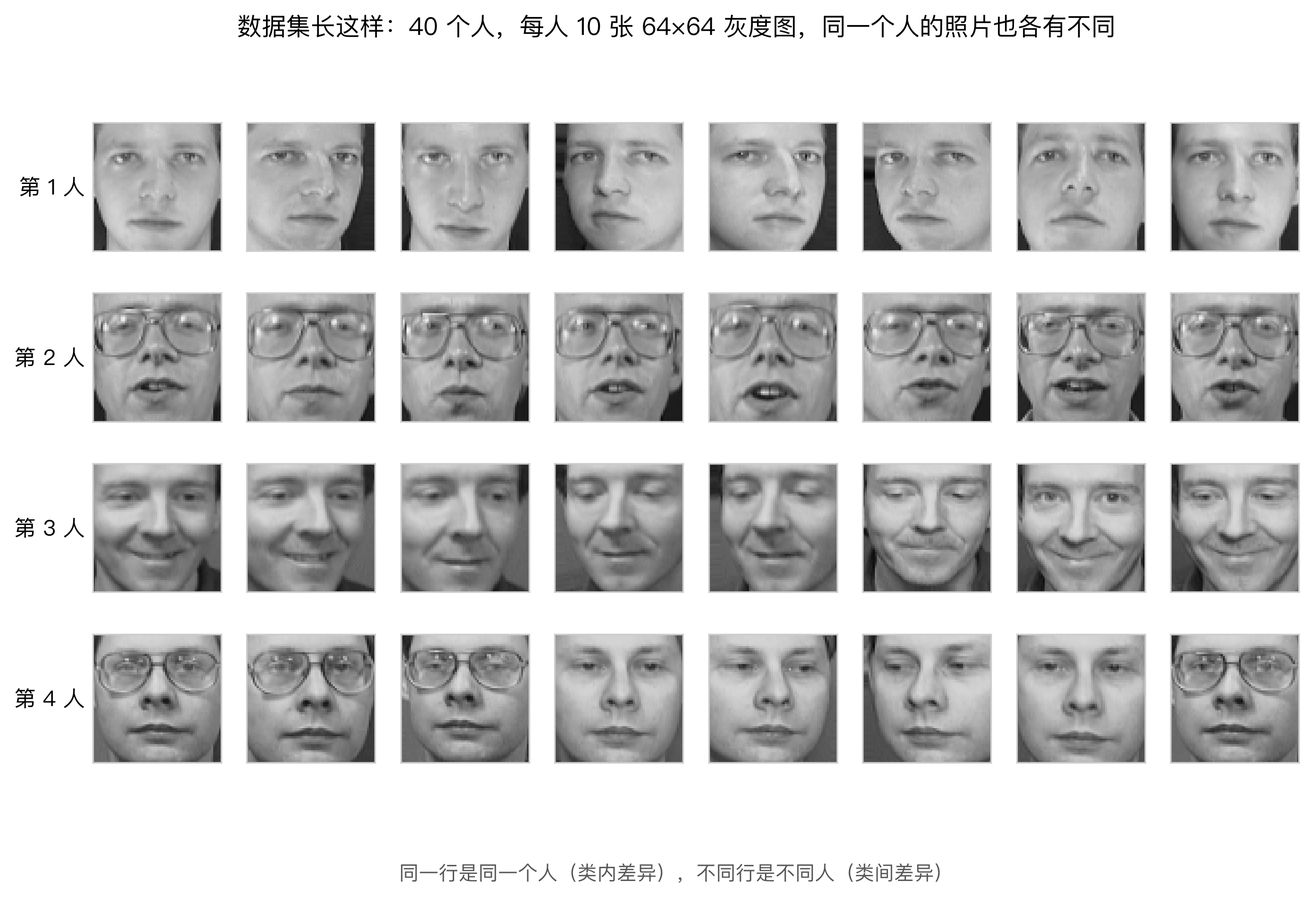
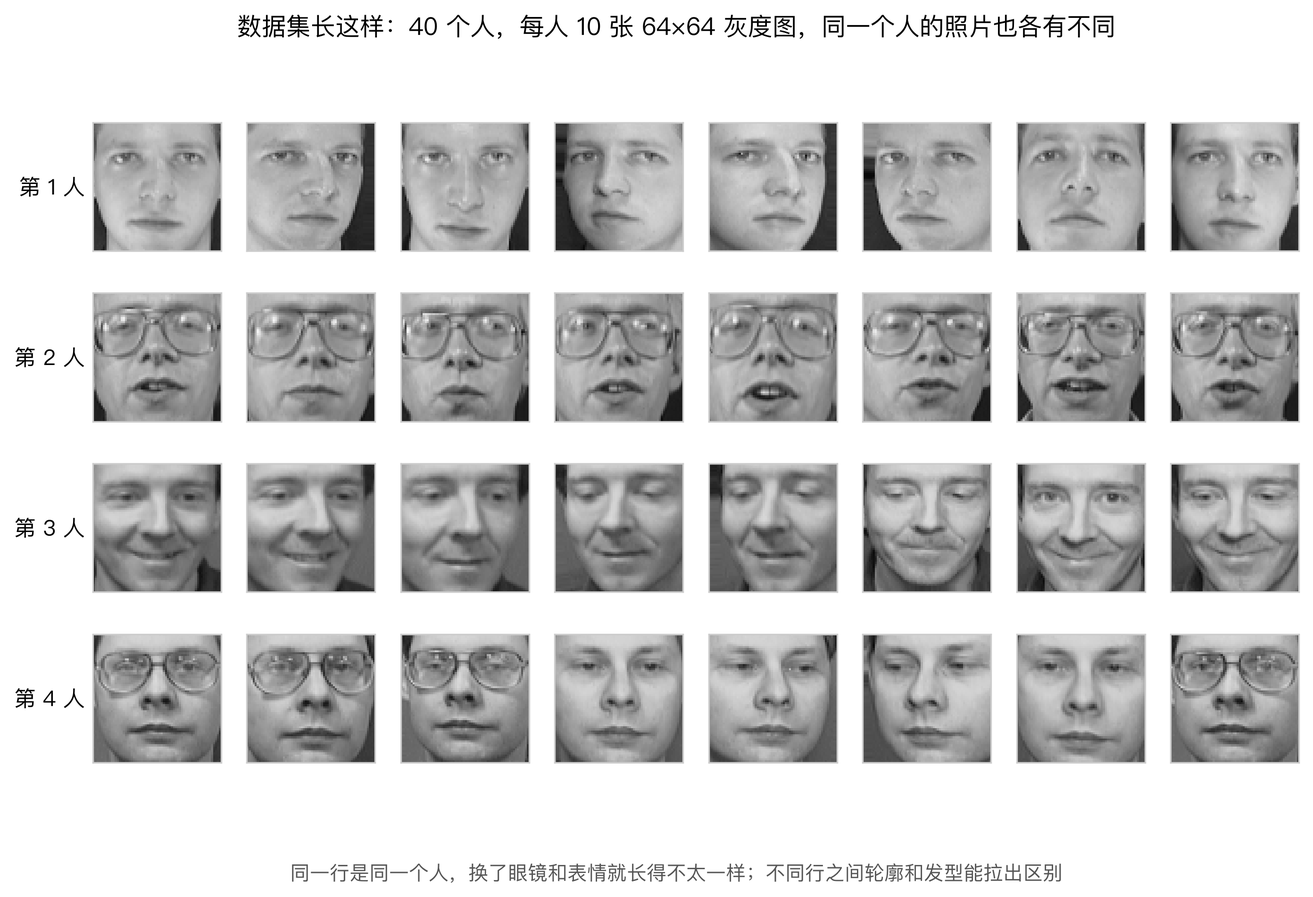
M14: 正文精简（9965 → 6787 字符），删掉未做的实验与概念延伸
- 字数硬上限改为 10000（用户要求），QC 同步
- 删：为什么不换真假脸数据集（正文两处重复）、类内/类间差异命名、分割检测网络的池化讨论、5×5/9×9 感受野延伸算账
- 压缩：开头钩子、im2col、输出尺寸公式、口径说明、BN 各段（训练/推理模式、批大小、He 初始化）
- 数字、8 张图、Q1-Q4 结构与三个干货点全部保留；数学占比 18.1% → 16.2%
- fig5 图内标注去掉了正文已不使用的类内/类间说法

Changed region(s): [[0.2188, 0.9616, 0.8125, 0.9926]]

diff --git a/M14_CNN_batch_norm/code/qc_article.py b/M14_CNN_batch_norm/code/qc_article.py
@@ -17,8 +17,8 @@ body = re.sub(r"```[\s\S]*?```", "", text)
 body = re.sub(r"图片占位.*", "", body)
 cn = len(re.findall(r"[\u4e00-\u9fff]", body))
 total = len(re.sub(r"\s", "", body))
-print(f"1) 字数：中文字符 {cn}，去空白总字符 {total}  -> 目标 ~10000（掘金无硬上限）")
-print(f"   {'PASS' if 8000 <= total <= 11000 else 'CHECK（目标区间 8000-11000）'}")
+print(f"1) 字数：中文字符 {cn}，去空白总字符 {total}  -> 硬上限 10000（用户要求精简）")
+print(f"   {'PASS' if 5000 <= total <= 10000 else 'CHECK（目标区间 5000-10000）'}")
 
 # ---------- 2. 黑名单词 ----------
 BLACK = ["赋能", "洞见", "底层逻辑", "硬核", "天花板", "降维打击", "抓手",

diff --git a/M14_CNN_batch_norm/code/make_extra_figures.py b/M14_CNN_batch_norm/code/make_extra_figures.py
@@ -52,7 +52,7 @@ for r in range(n_people):
     axes[r, 0].set_ylabel(f"第 {who + 1} 人", fontsize=11, rotation=0, ha="right", va="center")
 fig.suptitle("数据集长这样：40 个人，每人 10 张 64×64 灰度图，同一个人的照片也各有不同",
              fontsize=12.5, y=1.0)
-fig.text(0.5, -0.02, "同一行是同一个人（类内差异），不同行是不同人（类间差异）",
+fig.text(0.5, -0.02, "同一行是同一个人，换了眼镜和表情就长得不太一样；不同行之间轮廓和发型能拉出区别",
          ha="center", fontsize=10, color="#555555")
 save(fig, "fig5_sample_faces.png")
 

diff --git a/M14_CNN_batch_norm/M14_CNN_人脸_卷积与BN_2026-09-16.md b/M14_CNN_batch_norm/M14_CNN_人脸_卷积与BN_2026-09-16.md
@@ -1,184 +1,166 @@
 # 机器眼里没有脸，只有 4096 个数：手写 CNN 拆开卷积层与 BatchNorm
 
-早上七点四十，地铁口。我掏出手机，前置摄像头扫了一下脸，屏幕亮，锁开了。全程不到半秒，我连脚步都没停。
+早上七点四十，地铁口，我掏出手机扫了一下脸，锁开了，半秒不到。同一件事的另一面是，过去一年 AI 生成的脸也多了起来。2025 年 9 月 1 日《人工智能生成合成内容标识办法》施行，要求 AI 生成合成的内容打上标识，到今年 9 月刚好跑满一年。
 
-这事放在十年前还算高科技，现在门禁、快递柜、小区大门都在用。可另一边的风也在变。过去一年你大概在群里见过不少"AI 生成"的脸，滤镜磨得过头的、换脸视频里的、一键生成的证件照。2025 年 9 月 1 日，《人工智能生成合成内容标识办法》开始施行，要求 AI 生成合成的内容打上标识。到 2026 年 9 月，这套规矩跑满一年，配套的强制国标也落地了。
+一边是机器要认出你是谁，一边是机器要认出这张脸是不是真的。看着相反，底层是同一件事：一个能在像素里找规律的神经网络。
 
-一边是机器要认出你是谁，另一边是机器要认出这张脸是不是真的。两件事看着相反，底层却是同一套东西在干活：一个能在像素里找出规律的神经网络。
+这篇想问一个具体的问题：一张 64×64 的灰度小图，机器是怎么从里面分出"这是同一类人"的？为什么有的网络一学就会，有的怎么调都学不动？这后面站着两个主角，卷积层和 BatchNormalization（下面简称 BN）。我用一份真实人脸数据，从零用 numpy 把网络搭起来跑给你看，文章里每个数字都能在我给的脚本里原样跑出来。
 
-我在观星记的 M 系列里写过分类、回归、词向量、聚类。这一篇想把镜头拉近，问一个特别具体的问题：一张 64×64 的灰度小图，机器到底是怎么从里面认出"这是同一类人"的？为什么有的网络一学就会，有的怎么调都学不动？
-
-这后面站着两个主角，卷积层和 BatchNormalization（下面简称 BN）。我用一份真实的人脸数据集，从零用 numpy 把网络搭起来，一行行跑给你看。全文里的每个数字，都能在我放的脚本里原样跑出来。
-
-先看一眼整条流水线长什么样，后面再一块块拆开。
+先看整条流水线。
 
 图片占位 1（fig6_arch.png）
 
-图 1 就是这个网络的全貌。一张 64×64 的脸进去，先过一层卷积抽出 8 张特征图，再过一层卷积抽出 16 张，中间穿插池化和 BN，最后把特征拍平、全连接、输出两类。整张图只有 9442 个参数，而第一层卷积自己只占了 88 个。这个数字后面会反复出现，先记住它。
+图 1 是网络全貌。一张 64×64 的脸进去，过一层卷积抽出 8 张特征图，再过一层抽出 16 张，中间穿插池化和 BN，最后拍平、全连接、输出两类。整张图只有 9442 个参数，第一层卷积自己只占 88 个，这个数字后面还会出现。
 
 ## Q1 一张脸进了计算机，变成了什么？
 
-先把玄乎的部分去掉。摄像头拍到的所谓"一张脸"，在计算机里就是一堆数字。
+摄像头拍到的"一张脸"，在计算机里就是一堆数字。
 
-我用的这份数据叫 Olivetti Faces，是 AT&T 剑桥实验室上世纪拍的人脸集，40 个人，每人 10 张，一共 400 张。每张被压成 64 行 64 列的灰度图，每个格子的取值是 0 到 1 之间的小数，0 是全黑，1 是全白。所以一张脸等于 64 乘 64，4096 个数字，排成一个方阵。
+我用的数据叫 Olivetti Faces，AT&T 剑桥实验室上世纪拍的人脸集，40 个人，每人 10 张，一共 400 张。每张压成 64 行 64 列的灰度图，每个格子的取值在 0 到 1 之间。所以一张脸等于 64 乘 64，4096 个数字。
 
 图片占位 2（fig5_sample_faces.png）
 
-图 2 是数据集里前 4 个人的照片，每人 8 张。同一行是同一个人。你可以先盯着看两秒，同一个人换了眼镜、换了表情、头偏了几度，样子就不太一样；而不同行之间，轮廓、胡子、发型又能拉出区别。这就是这份数据的全部内容，没有别的玄机。
+图 2 是前 4 个人的照片，每人 8 张，同一行是同一个人。同一个人换了眼镜、换了表情，样子就不太一样；不同行之间，轮廓和发型又能拉出区别。
 
-你可能会想，那还不简单，把这 4096 个数字一股脑喂给一个分类器不就完了。
+你可能会想，把这 4096 个数一股脑喂给分类器不就完了。
 
-这里就是第一个坎。如果我用最朴素的全连接层，让 4096 个输入每个都连到后面 8 个神经元，光这一层就要 4096 乘 8，32768 个权重。这还只是第一层，而 64×64 已经是很小的图。手机拍一张照片轻松上千万像素，按这个连法，参数多到硬盘都装不下。
+第一个坎在这。用最朴素的全连接层，让 4096 个输入每个都连到后面 8 个神经元，光这一层就要 4096 乘 8，32768 个权重。而 64×64 已经是很小的图，手机照片轻松上千万像素，按这个连法参数根本存不下。
 
-更要命的是第二个问题。全连接把每个像素都当成独立的输入，它会觉得"左上角那个格子"和"正中间那个格子"毫无关系。可人脸的规律恰恰是局部的、可以搬家的。眼睛的角、鼻子的边、嘴角的弧，这些笔画出现在脸的哪个位置不重要，重要的是"有这么一块明暗交界"。全连接没法表达这种"同一个图案出现在不同位置都算数"的想法，它只能给每个位置单独配一套权重，位置一多就崩。
+第二个问题更要命。全连接把每个像素当独立输入，它会觉得"左上角那个格子"和"正中间那个格子"毫无关系。可人脸的规律恰恰是局部的、可以搬家的：眼睛的角、鼻子的边，出现在哪个位置不重要，重要的是"有这么一块明暗交界"。全连接表达不了这件事，只能给每个位置单独配一套权重。
 
-所以卷积层出现了。它干的头一件事，就是把"位置"和"图案"这两件事拆开。
+所以卷积层出现了，它要做的第一件事，就是把"位置"和"图案"拆开。
 
-我这次的任务设定很直白：把 Olivetti 的 40 个人分成两拨，前 20 人是一类，后 20 人是另一类，让网络学一个二分类。数据随机切成 300 张训练、100 张测试。这么设不是为了造一个"人脸识别产品"，而是让一个从零写的、纯 numpy 的小网络能在几分钟里跑完，好把每一步推算摊开给你看。
+我这次的任务很简单：把 40 个人分成两拨，前 20 人一类，后 20 人一类，做个二分类。数据随机切成 300 张训练、100 张测试。这么设不是为了造产品，是让一个纯 numpy 的小网络几分钟能跑完，好把每一步摊开给你看。
 
-刚才让你盯着图 2 看的那两秒，其实就是这个任务的核心。对网络来说，它要学的是"同一个人的不同照片应该靠得近，不同人的照片应该离得远"。这两组差距有个名字，类内差异和类间差异。人脸识别难就难在，同一个人的类内差异有时候比不同人之间的类间差异还大，一个人戴眼镜和不戴眼镜的差别，可能超过两个都不戴眼镜的人之间的差别。这也是为什么人脸识别后来要专门处理表情、光照、姿态，而不是简单比像素。我做二分类而不是 40 分类，是为了让这个小网络学得住，道理是通的。
-
-有人会问，既然聊的是 AI 假脸，为什么不直接拿一个真假脸数据集来做检测？原因很实在。那类数据集大多要从 Kaggle 下，动辄几个 G，还得有账号凭证，复现门槛一下就上去了。Olivetti 的好处是 scikit-learn 里一行代码就能拉下来，只有 1.4 兆，任何人拿到我的脚本都能原样跑出文章里的每个数字。而同一套 CNN 结构，把输入换成真假脸图片，就是一套现成的深伪检测器，卷积抓纹理、BN 稳训练，这两件事一模一样。选小数据集是为了让"可复现"没有门槛，不影响结论。
-
-还有个细节值得交代。我把灰度值除到 0 到 1 之间再送进网络，这一步叫归一化。原因和后面要讲的 BN 是同一个道理：神经网络对输入的尺度很敏感，数值范围不统一，训练就容易抖。这一手在输入层做，BN 是在中间层做，思路一致。
+还有个小处理，我把灰度值除到 0 到 1 之间再送进网络。神经网络对输入尺度敏感，范围不统一训练就容易抖。这一手在输入层做，BN 是在中间层做，思路一样。
 
 ## Q2 卷积层，到底在脸上一格一格找什么？
 
-先说卷积最核心的两个词，局部感受野和权值共享。别被名字吓到，拆开看都很朴素。
+卷积最核心的两个词，局部感受野和权值共享，拆开看都很朴素。
 
-先看局部感受野。卷积层不像全连接那样一眼看全图，它手里拿着一个小窗口，比如 3×3，只在脸的一小块地方看。它把窗口在整张图上从左到右、从上到下地滑，每滑到一个位置，就用手里的 9 个权重，跟窗口盖住的 9 个像素做一次加权求和。公式写出来是
+局部感受野是说，卷积层不像全连接那样一眼看全图，它手里拿着一个小窗口，比如 3×3，只在脸的一小块地方看。窗口从左到右、从上到下滑，每滑到一个位置，就用手里的 9 个权重跟盖住的 9 个像素做一次加权求和：
 
 y[i, j] = ΣΣ w[a, b] · x[i+a, j+b] + b
 
-这里 x 是输入图，x[i+a, j+b] 是被窗口盖住的那一小块里的像素；w 是那 9 个权重，整个滑动过程里它一份都不换，这就是权值共享；b 是一个偏置，跟 w 一样也是学出来的；y[i, j] 是滑到第 i 行第 j 列这个位置时算出的一个数。窗口滑完全图，就得到一张新的图，叫特征图。
+x 是输入图，w 是那 9 个权重，滑动全程一份都不换，这就是权值共享；b 是偏置；y[i, j] 是滑到第 i 行第 j 列算出的数。窗口滑完全图得到一张新图，叫特征图。
 
-你注意，同一组 9 个权重，在整张脸上滑了一遍。这就是权值共享的字面意思：一份权重，全图通用。打个不精确但好记的比方，你用同一块雕花印章，在纸上从左到右盖一排，盖出来的每一朵花纹都来自同一块印章，只是落点不同。卷积核就是那块印章。
+打个好记的比方：同一块雕花印章，在纸上从左到右盖一排，每朵花纹都来自同一块印章，只是落点不同。卷积核就是那块印章。
 
-这一步光看公式还是抽象，我把它摊成一个能对着数的例子。
+光看公式还是抽象，我把它摊成一个能对着数的例子。
 
 图片占位 3（fig7_conv_compute.png）
 
-图 3 左边是脸上的一小块 5×5 明暗，黄框是当前窗口盖住的 3×3；中间是卷积核的 9 个权重；右边是算出来的结果，1.05。1.05 是怎么来的？把窗口里那 9 个数和核的 9 个权重一一对应相乘，再把 9 个乘积加起来，就得到它。仔细看这个核，它左边一列是正的、右边一列是负的，所以它专门奖励"左边亮、右边暗"的竖直边。黄框里盖住的正好是这样一块明暗交界，算出来的数就大；换一块平坦的区域盖上去，同一个核算出来就接近 0。一个核就是对一种局部图案的探测器，图案越像，输出越大。
+图 3 左边是脸上一小块 5×5 的明暗，黄框是当前窗口盖住的 3×3；中间是卷积核的 9 个权重；右边是算出的结果 1.05。把窗口里那 9 个数和核的 9 个权重一一相乘再相加，就得到它。仔细看这个核，左边一列是正的、右边一列是负的，它专门奖励"左边亮右边暗"的竖直边。黄框里正好是这样一块交界，算出来就大；换成平坦的区域，同一个核算出来接近 0。一个核就是对一种局部图案的探测器。
 
-一组权重滑一遍，只能抽一种图案。所以卷积层一次放好几个核。我这一层放了 8 个 3×3 的核，每个核自己滑一遍，输出 8 张特征图，每张记录一种局部图案在全图各处的强弱。看图 4。
+一组权重滑一遍只能抽一种图案，所以卷积层一次放好几个核。我这一层放了 8 个 3×3 的核，输出 8 张特征图。
 
 图片占位 4（fig1_conv_construction.png）
 
-图 4 上面一行是输入的那张脸，和网络学出来的 8 个 3×3 卷积核；下面一行是 8 张对应的特征图。你能看到，有的核正中间是个大正数，输出的特征图整张脸都亮起来；有的核正负交错，特征图只在脸颊和鼻梁附近有反应；还有的核响应很弱，输出基本是灰的。这些核不是人设计的，是网络自己从 300 张训练图里学出来的。它学到什么，取决于什么有助于把两类人分开。
+图 4 上面一行是输入的脸和网络学出来的 8 个核，下面一行是 8 张对应的特征图。有的核正中间是个大正数，特征图整张脸都亮；有的核正负交错，只在脸颊和鼻梁附近有反应；还有的响应很弱，输出基本是灰的。这些核不是人设计的，是网络自己从 300 张训练图里学出来的。
 
-特征图算出来之后，还会过一个 ReLU，把负数全抹成 0，只留正响应。这一步的意义是引入非线性。如果没有它，卷积再怎么叠也还是一堆线性操作，网络永远只能画直线边界。ReLU 一进来，网络才有了拟合弯曲边界的能力。
+特征图之后还会过一个 ReLU，把负数全抹成 0。它的意义是引入非线性，没有它，卷积叠再多也还是一堆线性操作，网络只能画直线边界。
 
-再往后是池化层。我把 2×2 的范围压成一个数，取其中的最大值，图的长宽各减一半。它干两件事：一是把特征图变小，减少后面要算的量；二是让网络对小的位移不那么敏感。一只眼睛稍微往上挪两个像素，池化取的是同一块区域里的最大值，输出基本不变，这就给了网络一点平移容忍度。
+再往后是池化。我把 2×2 的范围压成一个数，取最大值，图的长宽各减一半。它干两件事：把特征图变小，减少后面的计算量；让网络对小的位移不那么敏感。一只眼睛稍微挪两个像素，池化取的是同一块区域的最大值，输出基本不变。代价是位置信息被扔掉了，取最大值的那个像素在哪，池化之后不记得了。这对分类是好事，换成要精确定位的任务就成了麻烦。
 
-不过池化也有代价，它把位置信息扔掉了。取最大值的那个像素到底在哪，池化之后不记得了，只记得这块区域里最强的响应有多大。对分类任务这通常是好事，我们关心的是"有没有这只眼睛"，不关心"这只眼睛精确在第几行第几列"。可要是任务变成要精确定位，比如画个框把脸圈出来，池化丢掉的坐标就成了麻烦。所以后来的分割、检测网络宁可少用池化，换用别的方式保住空间信息。同一个操作是优点还是缺点，取决于你要解决什么问题，这句话在做网络设计时经常用得上。
+到这里你可能有个疑问，卷积一圈圈地滑，代码里不会慢死吗。这是我写代码时最有意思的一段。
 
-到这里你可能有个疑问，卷积一圈一圈地滑，代码里不会慢死吗。这是我实际写代码时最有意思的一段。
+如果老实写两层 for 循环滑窗口，numpy 里跑一张 64×64 的图就要循环几千次，慢得没法训练。工程上的做法叫 im2col，把滑窗巧换成矩阵乘法：先把输入图按窗口位置展开成一个矩阵，每一行是一次滑动盖住的 9 个像素，64×64 的图展开出来就是 4096 行、每行 9 个数；8 个核也拍平成 8 行 9 列的矩阵。两边一做矩阵乘法，一次性算出所有位置、所有核的输出，比手写循环快几个数量级。我脚本里的 im2col 干的就是这件事，反向传播时再用 col2im 把梯度还原回去。
 
-如果老老实实写两层 for 循环去滑窗口，numpy 里跑一张 64×64 的图就要循环几千次，慢得没法训练。工程上的做法叫 im2col，把滑窗这一步巧换成矩阵乘法。具体说，就是先把输入图按窗口位置"展开"成一个矩阵，每一行是一次滑动盖住的 9 个像素。64×64 的图，用 3×3 的核、步长 1、边缘补 1 圈 0 之后，输出还是 64×64，展开出来的矩阵就是 4096 行、每行 9 个数。8 个核也拍平成一个 8 行 9 列的矩阵。两边一做矩阵乘法，一次性算出所有位置、所有核的输出。矩阵乘法是 numpy 最拿手的活，比手写循环快几个数量级。我的脚本里 `im2col` 这个函数干的就是这件事，反向传播时再用一个 `col2im` 把梯度还原回去，两者对称。
-
-这里补一个会反复用到的式子，输出尺寸怎么算：
+顺带一个后面会反复用到的式子，输出尺寸怎么算：
 
 H_out = (H + 2p - k) / s + 1
 
-H 是输入的高，p 是边缘补零的圈数，k 是核的大小，s 是滑动的步长。我用 k 为 3 的核，为了不让图越卷越小，边上补一圈 0，也就是 p 取 1，步长 s 取 1，代进去 (64 + 2 - 3) / 1 + 1 = 64，输出尺寸不变。这就是为什么我的卷积层用完图还是 64×64，尺寸的缩小交给池化去做。
+H 是输入高，p 是边缘补零的圈数，k 是核大小，s 是步长。我用 3×3 的核，边上补一圈 0，步长取 1，代进去 (64 + 2 - 3) / 1 + 1 = 64，尺寸不变。所以卷积层用完图还是 64×64，缩小的活交给池化。
 
-这里有个反直觉的点值得停一下。局部感受野听起来是个限制，只看 3×3 这么小的地方，不是把信息看窄了吗。可正是这个限制逼出了更好的东西。全连接靠"每个位置配一套权重"来获得全局视野，代价是参数随图的大小爆炸；卷积靠"小窗口加共享权重"先抓局部，再靠叠层把局部拼成全局。单个核只看 3×3，但两个卷积层叠起来以后，第二层的一个输出点其实已经看过原图上一块 5×5 的区域。层数越深，能覆盖的范围越大。这是用层数换视野，把"看多宽"从一层里的参数量问题，变成了层数问题。后面讲参数对比时你会发现，这个替换划算得惊人。顺着这个思路还能算一笔账：每叠一层 3×3 的卷积，一个输出点能往回看的范围就大一圈，两层叠起来是 5×5，四层是 9×9。想让最后一层的输出看过大半张 64×64 的脸，不靠加宽单层窗口，靠的是把层数堆够，这也是后来那些几十层、上百层的网络能认得越来越复杂的东西的原因。
+这里有个反直觉的点。局部感受野听起来是个限制，只看 3×3 这么小的地方，不是把信息看窄了吗。可正是这个限制逼出了更好的东西：全连接靠"每个位置配一套权重"换取全局视野，代价是参数随图的大小爆炸；卷积先抓局部，再靠叠层把局部拼成全局。两个卷积层叠起来，第二层的输出点已经看过原图上一块 5×5 的区域，层数越深覆盖越大。这是用层数换视野。
 
 ## Q3 为什么卷积这么省参数？
 
-回到刚才那个对比。同样是想把一张 64×64 的图变成 8 个通道，全连接和卷积的参数差了多少，我直接用脚本算了一遍，结果摆在这。
+同样是把一张 64×64 的图变成 8 个通道，全连接和卷积差多少，我直接用脚本算了一遍。
 
 图片占位 5（fig2_param_compare.png）
 
-看图 5，纵轴是对数刻度，因为两个数差得太远，用线性刻度小柱子会看不见。如果第一层用全连接，64×64 个输入连到 8 个输出，需要 64×64×8 个权重，再加 8 个偏置，一共 32776 个参数。如果用我写的卷积，8 个 3×3 的核，每个核 9 个权重，加 8 个偏置，一共 8×9 + 8，88 个参数。
+图 5 纵轴是对数刻度，因为两个数差得太远，用线性刻度小柱子会看不见。第一层用全连接，64×64 个输入连到 8 个输出，要 64×64×8 个权重加 8 个偏置，一共 32776 个参数。用卷积，8 个 3×3 的核，8×9 个权重加 8 个偏置，一共 88 个。
 
-32776 除以 88，约等于 372。而我在脚本里打印出来的是减少 409.7 倍，图上标的也是约 410 倍。这个差异来自记账口径。如果只比纯权重、不算偏置，是 32768 除以 80，等于 409.6，四舍五入到 409.7。如果连偏置一起算，就是 372 倍。我在脚本和图上统一用了纯权重的口径，因为偏置的数量和通道数绑在一起，和权重的规模不是一个量级，混着算反而看不清。不管用哪种口径，结论都一样：同一个输出，卷积用的参数比全连接少两个数量级。
+32776 除以 88 约等于 372，而脚本打印出来是减少 409.7 倍。差异来自记账口径：只算纯权重、不带偏置，是 32768 除以 80，等于 409.6，取一位小数就是 409.7；连偏置一起算才是 372 倍。我在脚本和图上统一用纯权重口径，因为偏置的数量跟通道数绑在一起，和权重的规模不是一个量级，混着算反而看不清。两种口径结论一样，卷积比全连接少两个数量级。
 
-为什么能省这么多，关键就在权值共享那四个字。全连接是"每个输入位置配一套独立权重"，4096 个位置就配了 4096 套；卷积是"所有位置共用同一套权重"，无论图多大，手里始终只有那 9 个数。一张 64×64 的图省了 410 倍，图越大，省得越狠。换成手机拍的 1000×1000 的图，差距会到几万倍。
+能省这么多，关键就在权值共享。全连接是"每个输入位置配一套独立权重"，4096 个位置就配 4096 套；卷积是"所有位置共用同一套"，图多大手里都只有那 9 个数。一张 64×64 的图省了 410 倍，图越大省得越狠。
 
-顺便把整个网络的账也算了。我这个网络是两层卷积加两层池化，最后接一个全连接输出层，总参数一共 9442 个。第一层卷积 88 个；第二层是 8 通道进、16 通道出、3×3 的核，是 8×16×9 加 16，等于 1168 个；剩下的绝大多数参数都在最后那个全连接层。这就引出卷积一个很实在的代价。
+整个网络的账也顺便算了：两层卷积加两层池化，最后接一个全连接输出层，总参数 9442 个。第一层卷积 88 个；第二层是 8 通道进、16 通道出、3×3 的核，8×16×9 加 16，等于 1168 个；剩下的绝大多数都在最后那个全连接层。
 
-卷积把参数压得极省，但也把"看多宽"框死了，单个卷积核一次只看 3×3 这么一小块。想看大结构，只能一层层叠上去。堆得越深，能覆盖的范围越大，可训练也越难。而且卷积并不是处处都比全连接省。到了最后要输出分类结果那一步，我用的还是全连接层，因为那一步需要把全图的信息汇到一起，通道之间、位置之间都要发生关系，这时候权值共享反而帮不上忙。卷积省在特征提取，全连接胜在最后汇总，两者各干各的活，不是谁取代谁。
+这里有个容易搞混的地方。卷积省的只是参数，不是计算量。还是第一层，8 个 3×3 的核在 64×64 的图上滑一遍，每个位置 9 次乘加，4096 个位置，一共 4096×8×9，接近 30 万次乘加；全连接那次前向，32776 个参数也要参与差不多量级的运算。两者算力在一个数量级，差的是要存下来的参数量。参数少的直接好处是不容易过拟合、对显存友好。把"参数少"和"算得快"当成一回事，是很多人的第一个误解。
 
-还有个容易被参数对比带偏的地方。卷积省的只是参数，不是计算量。还是拿第一层举例，8 个 3×3 的核在 64×64 的图上滑一遍，每个位置要做 9 次乘加，一共 4096 个位置，乘起来是 4096×8×9，接近 30 万次乘加。全连接那次前向，32776 个参数也要参与差不多这个量级的运算。两者算力消耗在一个数量级，差的是要存下来的参数量。所以卷积的胜利不在于算得更少，而在于用更少的参数表达了同一件事，参数少的直接好处是不容易过拟合、对显存更友好。把"参数少"和"算得快"当成一回事，是很多人的第一个误解。
-
-这就是我要说的第二层反直觉：省参数不等于万能。卷积的省是有条件的，条件是"同一个图案在图上任何位置含义相同"。换成另一种任务，比如图上每个位置代表不同含义的表格数据，这个前提就不成立了，卷积的共享反而会犯错。判断一个任务适不适合卷积，先问一句：这个任务的规律，是不是可以搬家的。
+卷积的省还有个前提：同一个图案在图上任何位置含义相同。换成每个位置代表不同含义的数据，比如表格，这个前提就不成立，共享反而会犯错。判断一个任务适不适合卷积，先问一句，这个任务的规律是不是可以搬家的。
 
 ## Q4 网络稍微一深就学不动，BatchNorm 是怎么把它拽回来的？
 
-我用同样的结构跑了三组对照，先说结果，再讲为什么。
+我用同样的结构跑了三组对照，先说结果。
 
 - 带 BN，学习率用 0.01：测试集准确率 0.95，CPU 训练 148.7 秒
 - 不带 BN，学习率只敢用 0.005：准确率 0.65，CPU 训练 151.1 秒，训练损失几乎没降
 - 不带 BN，硬用 0.01 的大学习率：准确率 0.78
 
-这三组不是嘴上说的，是脚本跑出来的。图 6 是终端里的原始输出。
+这三组不是嘴上说的，是脚本跑出来的，图 6 是终端里的原始输出。
 
 图片占位 6（fig8_train_log.png）
 
-图 6 里能看到三件事：第一层卷积只要 80 个权重，全连接要 32776 个；带 BN 那组从第 1 轮的 0.3544 一路降到第 40 轮的 0.0033；不带 BN 那组第 40 轮还停在 0.3464。同一份代码，只差了 BN 这一层。
+图 6 能看到三件事：第一层卷积只要 80 个权重，全连接要 32776 个；带 BN 那组从第 1 轮的 0.3544 一路降到第 40 轮的 0.0033；不带 BN 那组第 40 轮还停在 0.3464。同一份代码，只差了 BN 这一层。
 
-第一组和第三组只差一个 BN，准确率差了 17 个百分点。更逗的是第二组，它的训练损失从第一轮的 0.3466 到第四十轮的 0.3464，四十轮下来几乎没动，跟没学一样。这里顺带说一句，带 BN 那组在 CPU 上花了 148.7 秒，不带 BN 那组 151.1 秒，两者几乎一样，说明 BN 多出来的那点计算和它换来的收敛速度比起来可以忽略。看图 7。
+第一组和第三组只差一个 BN，准确率差了 17 个百分点。第二组更有意思，训练损失从第一轮的 0.3466 到第四十轮的 0.3464，四十轮几乎没动，跟没学一样。顺带说一句，带 BN 那组花了 148.7 秒，不带 BN 那组 151.1 秒，两者几乎一样，BN 多出来的那点计算和它换来的收敛速度比起来可以忽略。
 
 图片占位 7（fig3_bn_loss_curve.png）
 
-图 7 里绿线是带 BN 的，橙线是不带 BN 的。绿线中间还抖了一下，在第三个轮次冲到 0.59 然后掉下来，之后一路往下走到 0.003；而橙线从头到尾贴着 0.346 这条线躺着，几乎是一条水平线。为什么差距这么大。
+图 7 里绿线是带 BN 的，橙线是不带 BN 的。绿线在第三个轮次冲到 0.59 然后掉下来，之后一路走到 0.003；橙线从头到尾贴着 0.346 躺着，几乎是一条水平线。为什么差这么多。
 
-这里要讲一个概念，内部协变量偏移。名字拗口，意思很直白：网络是一层一层算的，前一层参数一变，后一层看到的输入分布就跟着变。训练时每走一步，每个卷积层的权重都在动，于是第二层卷积面对的输入，它的均值、方差一直在漂。后一层就像一个厨师，刚适应了这锅汤的咸淡，前一层又加了一勺盐，它得重新适应。层数越多，这种漂移叠加得越厉害，学起来就越费劲，学习率稍微大一点就直接乱套。第二组之所以卡住，就是因为没有 BN 兜底，学习率只能压得很小，每步挪动一点点，四十轮下来还没走出起点。
+这里要讲一个概念，内部协变量偏移。名字拗口，意思很直白：网络一层层算，前一层参数一变，后一层看到的输入分布就跟着变。训练时每走一步，每个卷积层的权重都在动，第二层卷积面对的输入，均值和方差一直在漂。后一层像个厨师，刚适应了这锅汤的咸淡，前一层又加了一勺盐。层数越多漂得越厉害，学习率稍微大一点就乱套。第二组卡住，就是因为没有 BN 兜底，学习率只能压得很小，每步挪一点点，四十轮还没走出起点。
 
-BN 干的事很简单，它在每一层输出后面插一道标准化。具体是对每个通道，把这批样本算出来的均值 μ 和方差 σ² 统计出来，再把每个数减均值、除标准差，拉成均值 0、方差 1 的分布。公式是
+BN 干的事很简单，在每一层输出后面插一道标准化。对每个通道，把这批样本的均值 μ 和方差 σ² 统计出来，每个数减均值、除标准差，拉成均值 0、方差 1 的分布：
 
 x̂ = (x - μ) / √(σ² + ε)
 
-μ 和 σ² 是这一批样本在这个通道上的均值和方差，ε 是个很小的数，比如 0.00001，只是防止分母为 0。这样每个通道的数值尺度就被统一到了差不多的范围。
+ε 是个很小的数，比如 0.00001，只是防止分母为 0。
 
-但光拉成标准分布有个问题。万一这一层本来就需要一个非 0 均值的分布呢，硬把它拉回 0 均值，反而把有用的信息抹掉了。所以 BN 又加了两个可学的参数，γ 和 β，做一次缩放和平移：
+光拉成标准分布有个问题。万一这一层本来就需要一个非 0 均值的分布，硬拉回去反而把有用的信息抹掉了。所以 BN 又加了两个可学参数 γ 和 β，做一次缩放和平移：
 
 y = γ · x̂ + β
 
-γ 是缩放系数，β 是平移量，它俩跟卷积权重一样，是训练时用反向传播学出来的。这一步等于给了网络一个开关：需要标准分布时，让 γ 取 1、β 取 0 就行；需要别的分布，网络自己把 γ、β 调到合适的位置。标准化只是把数据整理到一个好训练的起点，至于要不要这个起点、要偏到哪，交给网络自己决定。这也是 BN 容易被误解的地方，它不是一个死板的归一化，而是一个带可学参数的、可撤销的归一化。
+γ 和 β 跟卷积权重一样，是反向传播学出来的。需要标准分布时，让 γ 取 1、β 取 0 就行；需要别的分布，网络自己把 γ、β 调到合适的位置。所以 BN 不是死板的归一化，是带可学参数、可以撤销的归一化。
 
-有意思的是反向传播这一层。因为 y 是由 x̂ 算出来的，而 x̂ 里又含了整批样本的 μ 和 σ²，所以对某一个样本求梯度时，这个样本自己的值、这一批的均值、这一批的方差，三者的影响是缠在一起的。顺着链式法则往下推，结果是
+反向传播这一层有意思。因为 y 由 x̂ 算出来，而 x̂ 里含了整批样本的 μ 和 σ²，对某一个样本求梯度时，这个样本自己的值、这一批的均值、这一批的方差，三者缠在一起。顺着链式法则推，结果是
 
 dx = (1 / (M·σ)) · (M·dx̂ - Σdx̂ - x̂ · Σ(dx̂ · x̂))
 
-M 是这一批的样本数，dx̂ 是从后面传上来的梯度。方括号里三项，第一项是这个样本自己的贡献，后两项是"均值"和"方差"这两个统计量被改动带来的连带影响。我第一遍写代码时只留了第一项，漏了后两项，结果梯度算错，loss 死活不降，画出来的曲线跟不带 BN 那条橙线长得一模一样。补上之后绿线才掉下去。这一段是我踩过的坑，写出来给你避雷：BN 的反向不是简单的逐元素缩放，中间那两个减项一个都不能少。
+M 是这一批的样本数，dx̂ 是从后面传上来的梯度。方括号里三项，第一项是这个样本自己的贡献，后两项是均值和方差被改动带来的连带影响。我第一遍写代码时只留了第一项，漏了后两项，结果梯度算错，loss 死活不降，画出来的曲线跟不带 BN 那条橙线长得一模一样，补上之后绿线才掉下去。这个坑写出来给你避雷：BN 的反向不是简单的逐元素缩放，中间那两个减项一个都不能少。
 
-这里还藏着一个容易被忽略的工程细节。训练时 BN 用的是当前这一批样本的均值和方差，测试时你手上只有一张图，凑不出一批，怎么办。标准做法是训练过程中顺便记一个均值和方差的滑动平均，测试时就用这个记下来的值。所以 BN 在训练和推理两种模式下的行为是不一样的。我在脚本里给 BN 的 forward 留了一个 training 开关，训练时为真、评估时为假，就是为了处理这件事。很多人第一次复现 BN 出问题，就是忘了切这个模式。
+还有个容易被忽略的工程细节。训练时 BN 用当前这一批样本的均值和方差，测试时你手上只有一张图，凑不出一批。标准做法是训练过程中记一个均值和方差的滑动平均，测试时用这个记下来的值。所以 BN 在训练和推理两种模式下行为不一样，我在脚本里给 BN 的 forward 留了 training 开关，训练时为真、评估时为假。很多人第一次复现 BN 出问题，就是忘了切这个模式。
 
-还有一点常被忽略，BN 的效果跟批大小有关。它的均值和方差是从当前这一批样本里统计出来的，批太小，统计量本身就很吵，BN 反而添乱；批够大，统计量才稳，好处才出得来。我这次批大小用 20，对 300 张训练图来说算合适。批小到只有一两张时，很多框架会改用别的归一化方式，那是另一个话题了。
+批大小也影响 BN 的效果。均值和方差是从这一批样本统计出来的，批太小，统计量本身就很吵；批够大才稳。我这次批大小用 20，对 300 张训练图算合适。
 
-BN 还有个让人喜欢的副作用，它让网络对权重初始化没那么挑。我第一层卷积的权重用的是 He 初始化，乘以根号下 2 除以输入维度，本意就是让前向传播时信号的尺度保持住；有了 BN，即使初始化稍微偏一点，后一层也能把它拉回来。这也是 BN 当年能把网络一口气推到几十层的原因之一。回头看我这次的两层卷积其实很浅，BN 的好处已经能看出来，层数再往上加，它的作用会更明显。
+BN 还有个让人喜欢的副作用，它让网络对权重初始化没那么挑。我第一层卷积用的是 He 初始化，本意是让前向传播时信号的尺度保持住，有了 BN，即使初始化稍微偏一点，后一层也能拉回来。
 
-BN 为什么能救第三组那种情况。因为每一层的输入都被重新拉回了稳定的分布，后一层不用再去适应前一层不断漂移的输出，整个优化面对参数的敏感度降低了，于是可以用更大的学习率还不出事。这就是绿色那条线能用 0.01、橙色那条线只敢用 0.005 还学不动的原因。学习率大意味着每一步迈得远，迈得远就要求地形平缓，BN 干的就是把地形磨平这件事。
+这里我得诚实交代一件事。我原本的预设是"不带 BN 用大学习率会直接爆炸，loss 变成 NaN"，结果实测没炸，第三组不但没崩，还跑到了 0.78。所以准确的结论不是"不带 BN 一定炸"，而是：不带 BN 时，学习率小了收敛极慢，第二组卡在 0.346 学不动；学习率大了虽然没炸，但泛化明显更差，0.78 对 0.95。BN 的价值是在这两个极端之间给了一个稳的甜区，没有什么魔法。这和很多教程里"没 BN 必爆"的说法不一样，我更愿意信自己跑出来的数字。
 
-这里我得诚实交代一件事。我原本的预设是"不带 BN 用大学习率会直接爆炸，loss 变成 NaN"，结果实测没炸。第三组不但没崩，还跑到了 0.78。所以准确的结论不是"不带 BN 一定炸"，而是：不带 BN 时，学习率小了收敛极慢，第二组卡在 0.346 学不动；学习率大了虽然没炸，但泛化明显更差，0.78 对 0.95。BN 的价值是在这两个极端之间给了你一个稳的甜区，而不是它有什么魔法。这一点和很多教程里"没 BN 必爆"的说法不一样，我更愿意信我自己跑出来的数字。数据量小的时候，这种"没爆但学得差"的中间状态其实更常见，也更容易被忽略。
-
-最后看看带 BN 那个模型到底错在哪。测试集 100 张图，结果是这样。
+最后看看带 BN 那个模型错在哪。测试集 100 张图，结果是这样。
 
 图片占位 8（fig4_confusion_matrix.png）
 
-图 8 是混淆矩阵。左上 48 张是"实际第一类、也判成第一类"，右下 47 张同理，正确的一共 95 张。错的那 5 张里，有 2 张是把第一类判成了第二类，3 张反过来。100 张错 5 张，对一个从零写、只训 40 轮的小网络来说，我认为可以接受。错的那几张，多半是光照或拍摄角度比较特别的样本，这也符合人脸识别的常见难点，换个姿势换盏灯，同一个人的两张照片可能就不像了。
+图 8 是混淆矩阵。左上 48 张是"实际第一类、也判成第一类"，右下 47 张同理，正确的一共 95 张。错的 5 张里，2 张把第一类判成了第二类，3 张反过来。100 张错 5 张，对一个从零写、只训 40 轮的小网络，我认为可以接受。错的那几张，多半是光照或角度比较特别的样本。
 
 ## 回到开头那个问题
 
-现在把四个小问的答案串起来。
-
-机器看懂一张脸，靠的是把 4096 个像素当成一张图，让卷积层拿着小窗口在脸上滑动，用共享的权重把局部的明暗图案抽成特征图。权值共享让参数量比全连接少了四百多倍，代价是单个核看得很窄，只能靠层层堆叠去覆盖更大的结构。层一多，前层参数变化会让后层的输入分布漂移，训练变得又慢又不稳，BN 用一次标准化加两个可学参数把它拽回稳定，于是网络能用更大的学习率、收敛得更快，最后在这个任务上拿到 0.95 的准确率。
-
-从手机刷脸解锁，到平台要标识 AI 生成内容，中间隔着的其实是同一件事：一个能在像素里找规律的函数，被人用数据喂出来。区别只在训练时的目标不同，一个学"是不是同一类人"，一个学"是不是真的"。卷积负责从像素里看见结构，BN 负责让这份看见的过程稳得住，两件事凑齐，机器才谈得上"一眼认出"。
+把四个小问串起来：机器看懂一张脸，靠的是把 4096 个像素当成一张图，让卷积层拿着小窗口在脸上滑动，用共享的权重把局部的明暗图案抽成特征图。权值共享让参数量比全连接少了四百多倍，代价是单个核看得很窄，只能靠层层堆叠去覆盖更大的结构。层一多，前层参数变化会让后层的输入分布漂移，训练又慢又不稳，BN 用一次标准化加两个可学参数把它拽回稳定，于是网络能用更大的学习率，最后在这个任务上拿到 0.95 的准确率。
 
 ## 三个值得记住的点
 
-1. 卷积层的核心不是"卷积"这个数学运算本身，而是局部感受野加权值共享这套组合拳。局部感受野负责让网络只看小范围，权值共享负责让同一套权重全图复用，前者控住感知范围，后者控住参数量。
+1. 卷积的核心不是"卷积"这个运算，是局部感受野加权值共享这套组合。前者控住感知范围，后者控住参数量。
 
-2. 参数量可以算得很具体。同样是把 64×64 变成 8 通道，全连接要 32776 个参数，卷积只要 88 个，按纯权重口径差了约 410 倍。图越大，这个差距越大，这也是卷积能扛住高分辨率图像的根本原因。
+2. 参数量能算得很具体。同样把 64×64 变成 8 通道，全连接要 32776 个参数，卷积只要 88 个，按纯权重口径差了约 410 倍。图越大，这个差距越大。
 
-3. BN 的作用是稳定每一层的输入分布，让优化面更平坦、允许更大的学习率。但它的收益有条件：不带 BN 时，小学习率会卡在平台学不动，大学习率虽不一定爆炸但泛化更差。别迷信"没 BN 必爆"，数字比传言可靠。
+3. BN 的作用是稳定每一层的输入分布，让优化面更平坦、允许更大的学习率。但它的收益有条件：不带 BN 时，小学习率会卡在平台学不动，大学习率虽不一定爆炸但泛化更差。别迷信"没 BN 必爆"。
 
 ## 怎么验证（🏃）
 
-代码、数据、配图我都放到了 GitHub，你可以自己跑一遍，文章里的每个数字都能原样复现：
+代码、数据、配图都在 GitHub 上，你可以自己跑一遍，文章里的每个数字都能原样复现：
 
 - 训练脚本：https://github.com/beverlyLee/ai-guanxingji/blob/main/M14_CNN_batch_norm/code/train_cnn.py
 - 配图脚本：https://github.com/beverlyLee/ai-guanxingji/blob/main/M14_CNN_batch_norm/code/make_figures.py
@@ -199,10 +181,8 @@ python code/make_extra_figures.py
 
 数据集不用手动下，脚本里的 fetch_olivetti_faces 会自动从 scikit-learn 拉，1.4 兆。我用的是纯 numpy 手写的 CNN，没有 torch 也没有 TensorFlow，卷积、池化、BN 的前向和反向都是一行行写出来的，方便你对照上面的公式看每一步。整篇跑完 CPU 五分钟，笔记本就能扛。
 
-为什么选 Olivetti 而不是更大的真假脸数据集，前面说过：它足够小、足够真、一行代码可下载，让"可复现"这件事没有门槛。同一套结构换成真假脸数据，就是一份现成的深伪检测器。数据换掉、结论不变的活，我更喜欢用小的先讲清楚。
-
 ## 最后想问你
 
-我这次特意把"不带 BN 用大学习率"跑成了 0.78，没有按传说里那样爆炸。你在自己跑模型的时候，有没有遇到过结果和教程说法对不上的情况，是数据太小的锅，还是教程为了好记把话说满了？评论区说说你的经历，我把这条线的实验再往下挖一挖。
+我这次特意把"不带 BN 用大学习率"跑成了 0.78，没有按传说里那样爆炸。你跑模型时有没有遇到过结果和教程说法对不上的情况，是数据太小的锅，还是教程为了好记把话说满了？评论区说说，我把这条线的实验再往下挖一挖。
 
-顺便，如果这篇让你把卷积和 BN 的关系理清了，点个收藏，后面 M 系列讲优化器时还会沿用今天这套代码。
+如果这篇让你把卷积和 BN 的关系理清了，点个收藏，后面 M 系列讲优化器时还会沿用今天这套代码。

diff --git a/M14_CNN_batch_norm/README.md b/M14_CNN_batch_norm/README.md
@@ -28,7 +28,7 @@ M14_CNN_batch_norm/
 | 图 | 文件 | 讲一件事 |
 |---|---|---|
 | 图 1 | fig6_arch.png | 网络结构全景（输入 → 两层卷积+池化+BN → 全连接） |
-| 图 2 | fig5_sample_faces.png | 数据集样本：4 人各 8 张，看类内 / 类间差异 |
+| 图 2 | fig5_sample_faces.png | 数据集样本：4 人各 8 张真脸，同一行是同一个人 |
 | 图 3 | fig7_conv_compute.png | 一次卷积怎么算：5×5 窗口 × 3×3 核 → 1.05 |
 | 图 4 | fig1_conv_construction.png | 8 个卷积核 → 8 张特征图 |
 | 图 5 | fig2_param_compare.png | 全连接 32776 vs 卷积 80（对数轴） |
